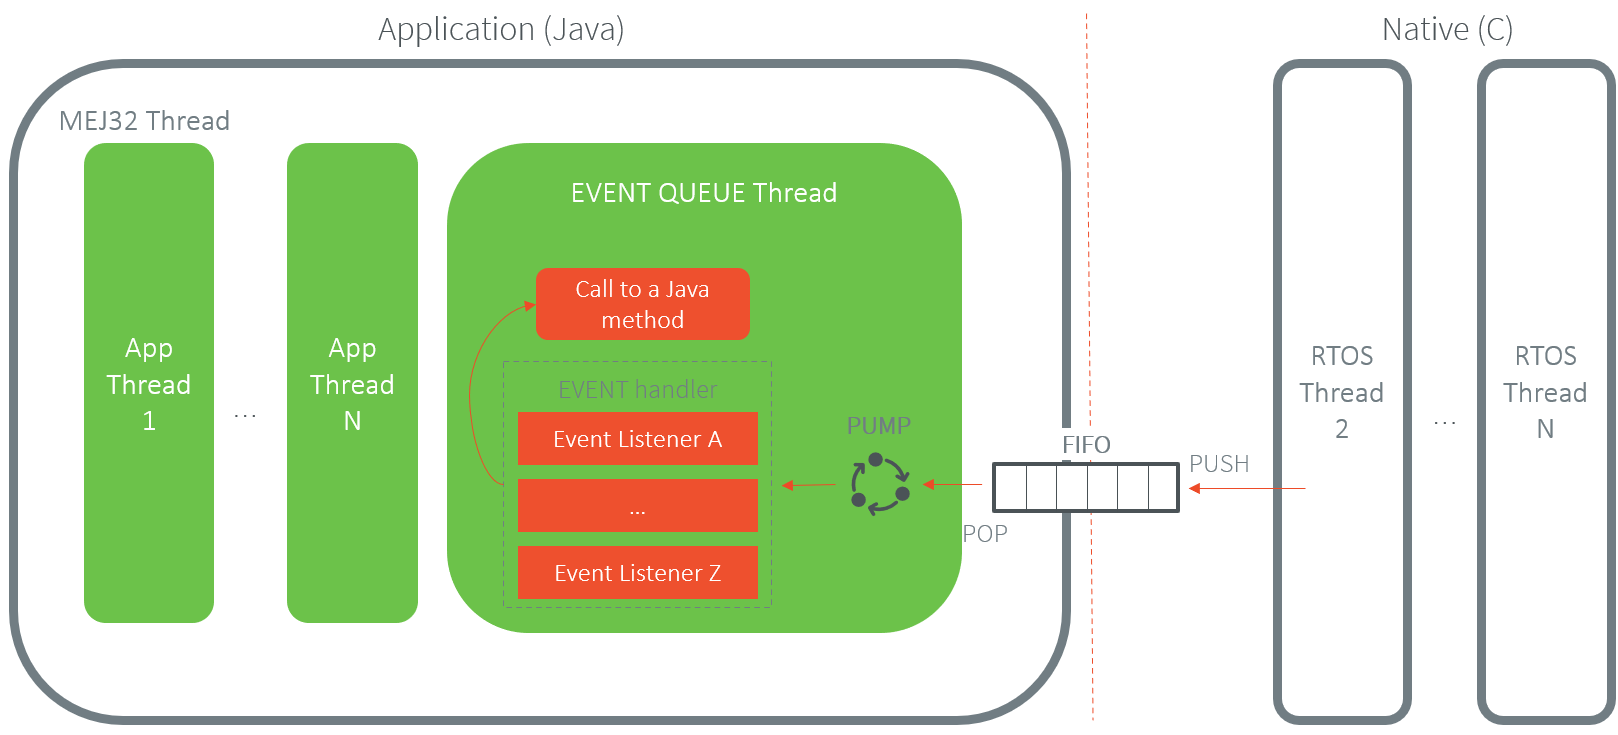
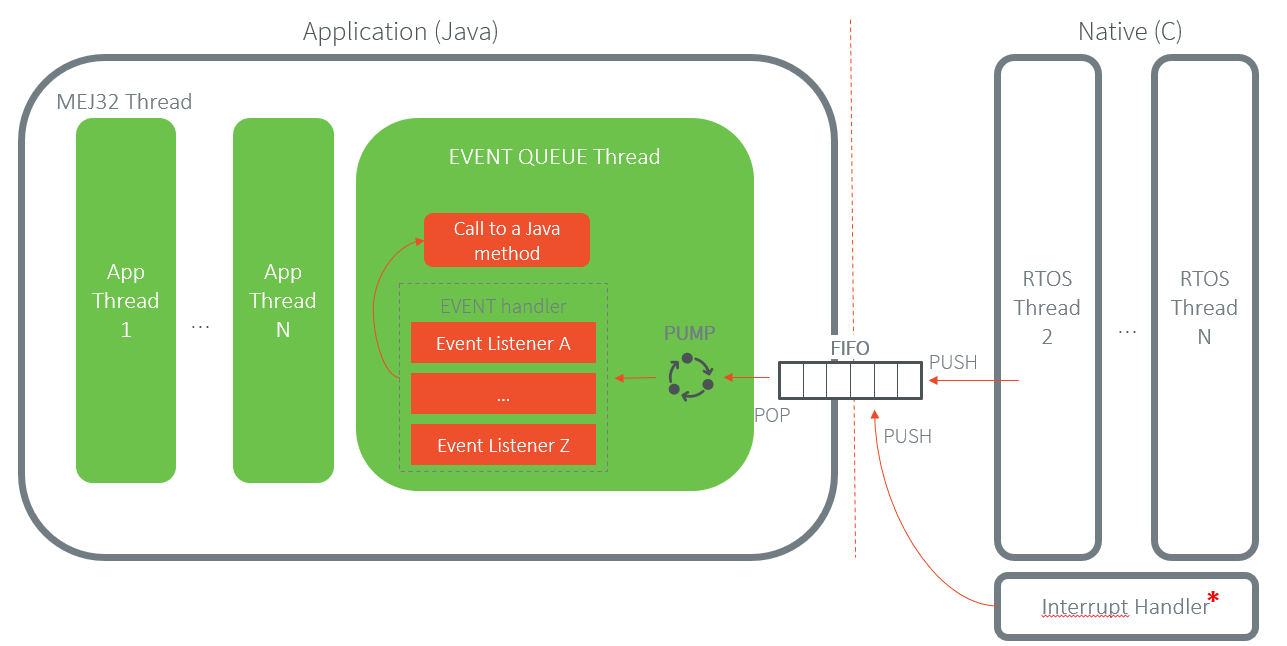
Update event queue architecture diagram

diff --git a/ApplicationDeveloperGuide/eventQueue.rst b/ApplicationDeveloperGuide/eventQueue.rst
@@ -50,7 +50,7 @@ Events reading operations are done using the SNI mechanism. Event Queue Java thr
 
 .. note:: 
 
-   Events can not be sent from an interrupt unless the VEE Port implementation allows it.
+   Events can not be sent from the Interrupt Handler unless the VEE Port implementation allows it.
 
 Event format
 ------------
